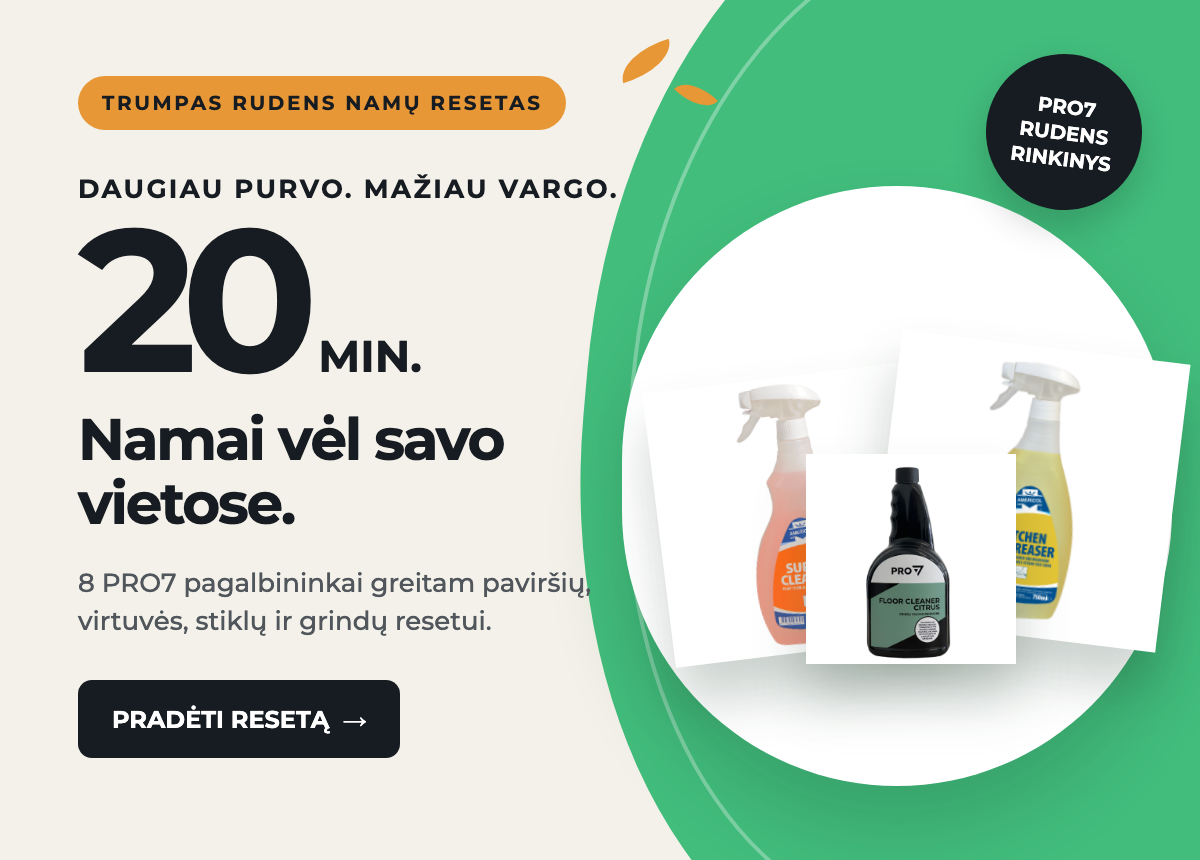
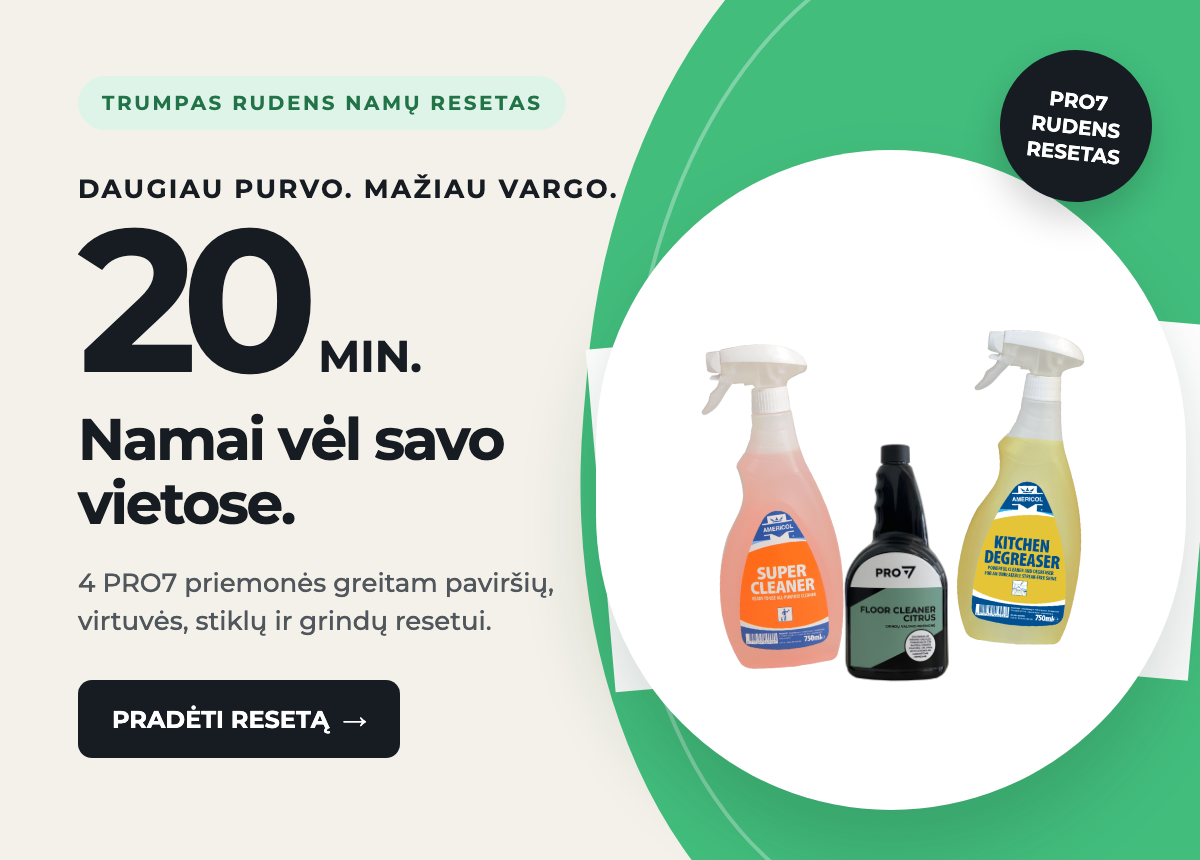
Refine hero and add authentic before after proof

diff --git a/nl2-20min-rudens-resetas/index.html b/nl2-20min-rudens-resetas/index.html
@@ -14,7 +14,7 @@
   </style>
 </head>
 <body>
-  <div class="preheader">Keturi aiškūs žingsniai paviršiams, virtuvei, stiklams ir grindims – mažiau blaškymosi, daugiau rezultato.</div>
+  <div class="preheader">Keturi aiškūs žingsniai paviršiams, virtuvei, stiklams ir grindims, mažiau blaškymosi, daugiau rezultato.</div>
   <table role="presentation" width="100%" bgcolor="#edf1ef"><tr><td align="center" style="padding:22px 8px 40px">
     <table role="presentation" class="shell" width="600" bgcolor="#ffffff" style="width:600px;max-width:600px;border-radius:16px;overflow:hidden;box-shadow:0 10px 35px rgba(35,40,50,.10)">
       <tr><td bgcolor="#42ba7d" align="center" style="padding:9px 16px;font-family:Montserrat,Arial,sans-serif;font-size:11px;line-height:16px;font-weight:600;color:#ffffff">Nemokamas pristatymas Lietuvoje nuo 45 €</td></tr>
@@ -37,7 +37,7 @@
 
       <tr><td class="pad" style="padding:34px 38px 22px;font-family:Montserrat,Arial,sans-serif;color:#232832">
         <p style="margin:0 0 12px;font-size:15px;line-height:24px">Sveiki, [[contact.first_name|default:'bičiuli']]!</p>
-        <p style="margin:0;font-size:15px;line-height:24px">Rudenį valymo sąrašas, atrodo, tik ilgėja. Todėl siūlome ne generalinį tvarkymą, o trumpą ir aiškų planą: skirkite maždaug po 5 minutes kiekvienai zonai ir rinkitės priemonę pagal problemą. Mažiau spėliojimo – daugiau matomo rezultato.</p>
+        <p style="margin:0;font-size:15px;line-height:24px">Rudenį valymo sąrašas, atrodo, tik ilgėja. Todėl siūlome ne generalinį tvarkymą, o trumpą ir aiškų planą. Skirkite maždaug po 5 minutes kiekvienai zonai ir rinkitės priemonę pagal problemą. Mažiau spėliojimo, daugiau matomo rezultato.</p>
       </td></tr>
 
       <tr><td class="pad" style="padding:17px 38px 12px;font-family:Montserrat,Arial,sans-serif;color:#232832">
@@ -62,19 +62,23 @@
         </tr><tr>
           <td class="product-col" width="50%" valign="top" style="padding:0 7px 14px 0"><table class="product-card" role="presentation" width="100%" height="405" bgcolor="#ffffff" style="height:405px;border-radius:12px"><tr><td align="center" valign="top" style="padding:18px 16px;font-family:Montserrat,Arial,sans-serif;color:#232832"><a href="https://www.pro7.lt/svaros-prekes/1283-pro7-glass-and-mirror-cleaner-500-ml-stiklo-ir-veidrodziu-valiklis"><img class="product-img" src="assets/glass-mirror.webp" width="185" alt="PRO7 Glass & Mirror Cleaner, 500 ml" style="width:185px;max-width:100%;height:185px;object-fit:contain;margin:0 auto"></a><div style="font-size:10px;line-height:13px;font-weight:700;letter-spacing:1px;color:#237086;text-transform:uppercase">Stiklui ir veidrodžiams</div><h3 style="height:42px;margin:7px 0 6px;font-size:16px;line-height:21px;font-weight:700">PRO7 Glass & Mirror, 500 ml</h3><div style="font-size:19px;line-height:25px;font-weight:700;margin-bottom:12px">8,96 €</div><a href="https://www.pro7.lt/svaros-prekes/1283-pro7-glass-and-mirror-cleaner-500-ml-stiklo-ir-veidrodziu-valiklis" style="display:inline-block;padding:11px 16px;border-radius:8px;background:#42ba7d;font-size:12px;font-weight:700;color:#ffffff">Rinktis →</a></td></tr></table></td>
           <td class="product-col" width="50%" valign="top" style="padding:0 0 14px 7px"><table class="product-card" role="presentation" width="100%" height="405" bgcolor="#ffffff" style="height:405px;border-radius:12px"><tr><td align="center" valign="top" style="padding:18px 16px;font-family:Montserrat,Arial,sans-serif;color:#232832"><a href="https://www.pro7.lt/svaros-prekes/1375-floor-cleaner-citrus-1-l-grindu-valiklis"><img class="product-img" src="assets/floor-cleaner-citrus.png" width="185" alt="Floor Cleaner Citrus, 1 l" style="width:185px;max-width:100%;height:185px;object-fit:contain;margin:0 auto"></a><div style="font-size:10px;line-height:13px;font-weight:700;letter-spacing:1px;color:#315d48;text-transform:uppercase">Grindims</div><h3 style="height:42px;margin:7px 0 6px;font-size:16px;line-height:21px;font-weight:700">Floor Cleaner Citrus, 1 l</h3><div style="font-size:19px;line-height:25px;font-weight:700;margin-bottom:12px">10,21 €</div><a href="https://www.pro7.lt/svaros-prekes/1375-floor-cleaner-citrus-1-l-grindu-valiklis" style="display:inline-block;padding:11px 16px;border-radius:8px;background:#42ba7d;font-size:12px;font-weight:700;color:#ffffff">Rinktis →</a></td></tr></table></td>
-        </tr><tr>
-          <td class="product-col" width="50%" valign="top" style="padding:0 7px 14px 0"><table class="product-card" role="presentation" width="100%" height="405" bgcolor="#ffffff" style="height:405px;border-radius:12px"><tr><td align="center" valign="top" style="padding:18px 16px;font-family:Montserrat,Arial,sans-serif;color:#232832"><a href="https://www.pro7.lt/svaros-prekes/1410-pro7-stain-hero-demiu-valiklis"><img class="product-img" src="assets/stain-hero.png" width="185" alt="PRO7 Stain Hero, 500 ml" style="width:185px;max-width:100%;height:185px;object-fit:contain;margin:0 auto"></a><div style="font-size:10px;line-height:13px;font-weight:700;letter-spacing:1px;color:#277e52;text-transform:uppercase">Rudens dėmėms</div><h3 style="height:42px;margin:7px 0 6px;font-size:16px;line-height:21px;font-weight:700">PRO7 Stain Hero, 500 ml</h3><div style="font-size:19px;line-height:25px;font-weight:700;margin-bottom:12px">15,76 €</div><a href="https://www.pro7.lt/svaros-prekes/1410-pro7-stain-hero-demiu-valiklis" style="display:inline-block;padding:11px 16px;border-radius:8px;background:#42ba7d;font-size:12px;font-weight:700;color:#ffffff">Rinktis →</a></td></tr></table></td>
-          <td class="product-col" width="50%" valign="top" style="padding:0 0 14px 7px"><table class="product-card" role="presentation" width="100%" height="405" bgcolor="#ffffff" style="height:405px;border-radius:12px"><tr><td align="center" valign="top" style="padding:18px 16px;font-family:Montserrat,Arial,sans-serif;color:#232832"><a href="https://www.pro7.lt/svaros-prekes/1415--americol-kitchen-cleaner-750-ml-virtuves-pavirsiu-valiklis"><img class="product-img" src="assets/kitchen-cleaner.png" width="185" alt="Americol Kitchen Cleaner, 750 ml" style="width:185px;max-width:100%;height:185px;object-fit:contain;margin:0 auto"></a><div style="font-size:10px;line-height:13px;font-weight:700;letter-spacing:1px;color:#8a7000;text-transform:uppercase">Kasdieniam virtuvės resetui</div><h3 style="height:42px;margin:7px 0 6px;font-size:16px;line-height:21px;font-weight:700">Kitchen Cleaner, 750 ml</h3><div style="font-size:19px;line-height:25px;font-weight:700;margin-bottom:12px">15,20 €</div><a href="https://www.pro7.lt/svaros-prekes/1415--americol-kitchen-cleaner-750-ml-virtuves-pavirsiu-valiklis" style="display:inline-block;padding:11px 16px;border-radius:8px;background:#42ba7d;font-size:12px;font-weight:700;color:#ffffff">Rinktis →</a></td></tr></table></td>
-        </tr><tr>
-          <td class="product-col" width="50%" valign="top" style="padding:0 7px 14px 0"><table class="product-card" role="presentation" width="100%" height="405" bgcolor="#ffffff" style="height:405px;border-radius:12px"><tr><td align="center" valign="top" style="padding:18px 16px;font-family:Montserrat,Arial,sans-serif;color:#232832"><a href="https://www.pro7.lt/svaros-prekes/1074-blizginimo-sluoste-pro7-glossy-50x70-cm"><img class="product-img" src="assets/glossy-cloth.png" width="185" alt="PRO7 Glossy blizginimo šluostė, 50 x 70 cm" style="width:185px;max-width:100%;height:185px;object-fit:contain;margin:0 auto"></a><div style="font-size:10px;line-height:13px;font-weight:700;letter-spacing:1px;color:#237086;text-transform:uppercase">Stiklui be dryžių</div><h3 style="height:42px;margin:7px 0 6px;font-size:16px;line-height:21px;font-weight:700">PRO7 Glossy šluostė, 50×70 cm</h3><div style="font-size:19px;line-height:25px;font-weight:700;margin-bottom:12px">12,50 €</div><a href="https://www.pro7.lt/svaros-prekes/1074-blizginimo-sluoste-pro7-glossy-50x70-cm" style="display:inline-block;padding:11px 16px;border-radius:8px;background:#42ba7d;font-size:12px;font-weight:700;color:#ffffff">Rinktis →</a></td></tr></table></td>
-          <td class="product-col" width="50%" valign="top" style="padding:0 0 14px 7px"><table class="product-card" role="presentation" width="100%" height="405" bgcolor="#ffffff" style="height:405px;border-radius:12px"><tr><td align="center" valign="top" style="padding:18px 16px;font-family:Montserrat,Arial,sans-serif;color:#232832"><a href="https://www.pro7.lt/svaros-prekes/221-americol-floor-cleaner-1-l-grindu-valiklis-"><img class="product-img" src="assets/floor-cleaner-americol.png" width="185" alt="Americol Floor Cleaner, 1 l" style="width:185px;max-width:100%;height:185px;object-fit:contain;margin:0 auto"></a><div style="font-size:10px;line-height:13px;font-weight:700;letter-spacing:1px;color:#315d48;text-transform:uppercase">Grindų blizgesiui</div><h3 style="height:42px;margin:7px 0 6px;font-size:16px;line-height:21px;font-weight:700">Americol Floor Cleaner, 1 l</h3><div style="font-size:19px;line-height:25px;font-weight:700;margin-bottom:12px">10,21 €</div><a href="https://www.pro7.lt/svaros-prekes/221-americol-floor-cleaner-1-l-grindu-valiklis-" style="display:inline-block;padding:11px 16px;border-radius:8px;background:#42ba7d;font-size:12px;font-weight:700;color:#ffffff">Rinktis →</a></td></tr></table></td>
         </tr></table>
+      </td></tr>
+
+      <tr><td class="pad" style="padding:36px 32px 38px;font-family:Montserrat,Arial,sans-serif;color:#232832">
+        <div style="font-size:11px;line-height:14px;font-weight:700;letter-spacing:1.2px;text-transform:uppercase;color:#277e52;text-align:center">Rezultatas kalba pats</div>
+        <h2 style="margin:7px 0 22px;font-size:27px;line-height:33px;font-weight:700;text-align:center">Prieš ir po su „Super Cleaner“</h2>
+        <a href="https://www.pro7.lt/galerija" style="display:block"><table role="presentation" width="100%"><tr>
+          <td width="50%" style="padding-right:5px"><img src="assets/before-super-cleaner.png" width="258" alt="Prieš valymą su PRO7" style="width:100%;height:auto;border-radius:12px 0 0 12px"><div style="padding:9px;background:#232832;color:#fff;text-align:center;font-size:11px;font-weight:700">PRIEŠ</div></td>
+          <td width="50%" style="padding-left:5px"><img src="assets/after-super-cleaner.png" width="258" alt="Po valymo su PRO7" style="width:100%;height:auto;border-radius:0 12px 12px 0"><div style="padding:9px;background:#42ba7d;color:#fff;text-align:center;font-size:11px;font-weight:700">PO</div></td>
+        </tr></table></a>
+        <p style="margin:18px 0 0;font-size:13px;line-height:20px;color:#66706a;text-align:center">Tikras rezultatas iš PRO7 galerijos. Paspaudę nuotraukas pamatysite daugiau darbų.</p>
       </td></tr>
 
       <tr><td class="pad" bgcolor="#232832" align="center" style="padding:34px 38px;font-family:Montserrat,Arial,sans-serif;color:#ffffff">
         <div style="font-size:11px;line-height:14px;font-weight:700;letter-spacing:1.2px;color:#78dda9;text-transform:uppercase">Mažiau blaškymosi</div>
         <h2 style="margin:8px 0 9px;font-size:27px;line-height:33px;font-weight:700">Viskas aišku nuo pirmo žingsnio.</h2>
-        <p style="margin:0 0 20px;font-size:14px;line-height:22px;color:#d5ddd9">Išsirinkite pagal problemą ir paviršių – profesionalus švaros rezultatas namuose.</p>
+        <p style="margin:0 0 20px;font-size:14px;line-height:22px;color:#d5ddd9">Išsirinkite pagal problemą ir paviršių, profesionalus švaros rezultatas namuose.</p>
         <table role="presentation"><tr><td bgcolor="#42ba7d" style="border-radius:9px"><a href="https://www.pro7.lt/svaros-prekes-valikliai/valymo-priemones" style="display:inline-block;padding:15px 22px;font-family:Montserrat,Arial,sans-serif;font-size:13px;font-weight:700;color:#ffffff">Peržiūrėti valymo priemones →</a></td></tr></table>
       </td></tr>
 

diff --git a/nl2-20min-rudens-resetas/hero-build.html b/nl2-20min-rudens-resetas/hero-build.html
@@ -1,4 +1,4 @@
 <!doctype html><html><head><meta charset="utf-8"><style>
 @import url('https://fonts.googleapis.com/css2?family=Montserrat:wght@500;600;700&display=swap');
-*{box-sizing:border-box}html,body{margin:0;width:600px;height:430px;overflow:hidden;font-family:Montserrat,Arial,sans-serif}.hero{position:relative;width:600px;height:430px;overflow:hidden;background:#f3f1e9;color:#171c22}.green{position:absolute;right:-82px;top:-72px;width:390px;height:570px;background:#42bd7c;border-radius:48% 0 0 48%;transform:rotate(5deg)}.ring{position:absolute;right:-54px;top:-35px;width:340px;height:500px;border:2px solid rgba(255,255,255,.32);border-radius:48% 0 0 48%;transform:rotate(5deg)}.copy{position:absolute;z-index:5;left:39px;top:38px;width:330px}.tag{display:inline-block;background:#e79735;border-radius:999px;padding:8px 12px 7px;font-size:10px;line-height:12px;font-weight:700;letter-spacing:1.3px;text-transform:uppercase}.kicker{margin-top:21px;font-size:13px;line-height:16px;font-weight:700;letter-spacing:1.2px;text-transform:uppercase}.number{margin-top:2px;font-size:101px;line-height:91px;font-weight:700;letter-spacing:-8px}.number span{display:inline-block;margin-left:8px;font-size:22px;line-height:24px;letter-spacing:0}.title{margin-top:9px;width:315px;font-size:29px;line-height:32px;font-weight:700;letter-spacing:-1.1px}.sub{margin-top:14px;width:275px;font-size:13px;line-height:19px;font-weight:500;color:#50565b}.cta{display:inline-block;margin-top:20px;background:#171c22;color:#fff;border-radius:7px;padding:12px 17px;font-size:12px;line-height:15px;font-weight:700}.stage{position:absolute;z-index:3;right:11px;bottom:25px;width:280px;height:330px}.halo{position:absolute;left:2px;top:18px;width:275px;height:300px;border-radius:138px;background:#fff;box-shadow:0 22px 38px rgba(18,48,33,.18)}.product{position:absolute;z-index:2;object-fit:contain;filter:drop-shadow(0 18px 13px rgba(18,48,33,.22))}.p1{width:138px;height:252px;left:20px;top:56px;transform:rotate(-7deg)}.p2{width:145px;height:270px;right:2px;top:35px;transform:rotate(7deg)}.p3{width:105px;height:205px;left:94px;top:102px;z-index:4}.badge{position:absolute;z-index:6;right:29px;top:27px;width:78px;height:78px;border-radius:50%;background:#171c22;color:#fff;display:flex;align-items:center;justify-content:center;text-align:center;font-size:10px;line-height:13px;font-weight:700;transform:rotate(7deg);box-shadow:0 8px 18px rgba(0,0,0,.18)}.leaf{position:absolute;z-index:6;background:#e79735;border-radius:100% 0 100% 0}.l1{right:263px;top:23px;width:28px;height:15px;transform:rotate(-16deg)}.l2{right:242px;top:42px;width:20px;height:11px;transform:rotate(44deg)}
-</style></head><body><div class="hero"><div class="green"></div><div class="ring"></div><i class="leaf l1"></i><i class="leaf l2"></i><div class="copy"><div class="tag">Trumpas rudens namų resetas</div><div class="kicker">Daugiau purvo. Mažiau vargo.</div><div class="number">20<span>MIN.</span></div><div class="title">Namai vėl savo vietose.</div><div class="sub">8 PRO7 pagalbininkai greitam paviršių, virtuvės, stiklų ir grindų resetui.</div><div class="cta">PRADĖTI RESETĄ&nbsp; →</div></div><div class="stage"><div class="halo"></div><img class="product p1" src="assets/super-cleaner.png"><img class="product p2" src="assets/kitchen-degreaser.png"><img class="product p3" src="assets/floor-cleaner-citrus.png"></div><div class="badge">PRO7<br>RUDENS<br>RINKINYS</div></div></body></html>
+*{box-sizing:border-box}html,body{margin:0;width:600px;height:430px;overflow:hidden;font-family:Montserrat,Arial,sans-serif}.hero{position:relative;width:600px;height:430px;overflow:hidden;background:#f3f1e9;color:#171c22}.green{position:absolute;right:-82px;top:-72px;width:390px;height:570px;background:#42bd7c;border-radius:48% 0 0 48%;transform:rotate(5deg)}.ring{position:absolute;right:-54px;top:-35px;width:340px;height:500px;border:2px solid rgba(255,255,255,.32);border-radius:48% 0 0 48%;transform:rotate(5deg)}.copy{position:absolute;z-index:5;left:39px;top:38px;width:330px}.tag{display:inline-block;background:#dff4e9;color:#237349;border-radius:999px;padding:8px 12px 7px;font-size:10px;line-height:12px;font-weight:700;letter-spacing:1.3px;text-transform:uppercase}.kicker{margin-top:21px;font-size:13px;line-height:16px;font-weight:700;letter-spacing:1.2px;text-transform:uppercase}.number{margin-top:2px;font-size:101px;line-height:91px;font-weight:700;letter-spacing:-8px}.number span{display:inline-block;margin-left:8px;font-size:22px;line-height:24px;letter-spacing:0}.title{margin-top:9px;width:315px;font-size:29px;line-height:32px;font-weight:700;letter-spacing:-1.1px}.sub{margin-top:14px;width:275px;font-size:13px;line-height:19px;font-weight:500;color:#50565b}.cta{display:inline-block;margin-top:20px;background:#171c22;color:#fff;border-radius:7px;padding:12px 17px;font-size:12px;line-height:15px;font-weight:700}.stage{position:absolute;z-index:3;right:2px;bottom:15px;width:300px;height:350px}.halo{position:absolute;left:0;top:10px;width:295px;height:330px;border-radius:148px;background:#fff;box-shadow:0 22px 38px rgba(18,48,33,.18)}.product{position:absolute;z-index:2;object-fit:contain;mix-blend-mode:multiply}.p1{width:172px;height:302px;left:2px;top:37px;transform:rotate(-5deg)}.p2{width:178px;height:318px;right:-4px;top:20px;transform:rotate(5deg)}.p3{width:130px;height:245px;left:87px;top:91px;z-index:4}.badge{position:absolute;z-index:6;right:24px;top:25px;width:76px;height:76px;border-radius:50%;background:#171c22;color:#fff;display:flex;align-items:center;justify-content:center;text-align:center;font-size:10px;line-height:13px;font-weight:700;transform:rotate(6deg);box-shadow:0 8px 18px rgba(0,0,0,.18)}
+</style></head><body><div class="hero"><div class="green"></div><div class="ring"></div><div class="copy"><div class="tag">Trumpas rudens namų resetas</div><div class="kicker">Daugiau purvo. Mažiau vargo.</div><div class="number">20<span>MIN.</span></div><div class="title">Namai vėl savo vietose.</div><div class="sub">4 PRO7 priemonės greitam paviršių, virtuvės, stiklų ir grindų resetui.</div><div class="cta">PRADĖTI RESETĄ&nbsp; →</div></div><div class="stage"><div class="halo"></div><img class="product p1" src="assets/super-cleaner.png"><img class="product p2" src="assets/kitchen-degreaser.png"><img class="product p3" src="assets/floor-cleaner-citrus.png"></div><div class="badge">PRO7<br>RUDENS<br>RESETAS</div></div></body></html>

diff --git a/nl2-20min-rudens-resetas/CAMPAIGN.md b/nl2-20min-rudens-resetas/CAMPAIGN.md
@@ -20,14 +20,10 @@
 - Americol Kitchen Degreaser, 750 ml — 18,00 €.
 - PRO7 Glass & Mirror Cleaner, 500 ml — 8,96 €.
 - Floor Cleaner Citrus, 1 l — 10,21 €.
-- PRO7 Stain Hero, 500 ml — 15,76 €.
-- Americol Kitchen Cleaner, 750 ml — 15,20 €.
-- PRO7 Glossy blizginimo šluostė, 50 × 70 cm — 12,50 €.
-- Americol Floor Cleaner, 1 l — 10,21 €.
 - Nemokamas pristatymas Lietuvoje nuo 45 €.
 
 „20 min.“ pateikiama kaip keturių zonų planas po maždaug 5 minutes, o ne garantuota visų namų išvalymo trukmė.
 
 ## Vizualai
 
-Hero sukurtas iš autentiškų PRO7 produktų nuotraukų ir prekės ženklo spalvų. Laiške pateikiamos 8 vienodo formato produktų kortelės su vienodame aukštyje esančiais CTA. Visos produktų nuotraukos atsisiųstos iš aktyvių pro7.lt produktų puslapių. Šiai kampanijai AI vizualai nenaudoti.
+Hero sukurtas iš autentiškų PRO7 produktų nuotraukų ir prekės ženklo spalvų. Laiške pateikiamos 4 kliento nurodytos, tarpusavyje susijusios rudens namų reseto priemonės. Prieš ir po nuotraukos paimtos iš oficialios PRO7 galerijos ir rodo „Super Cleaner“ rezultatą. Visos produktų nuotraukos atsisiųstos iš aktyvių pro7.lt produktų puslapių. Šiai kampanijai AI vizualai nenaudoti.
